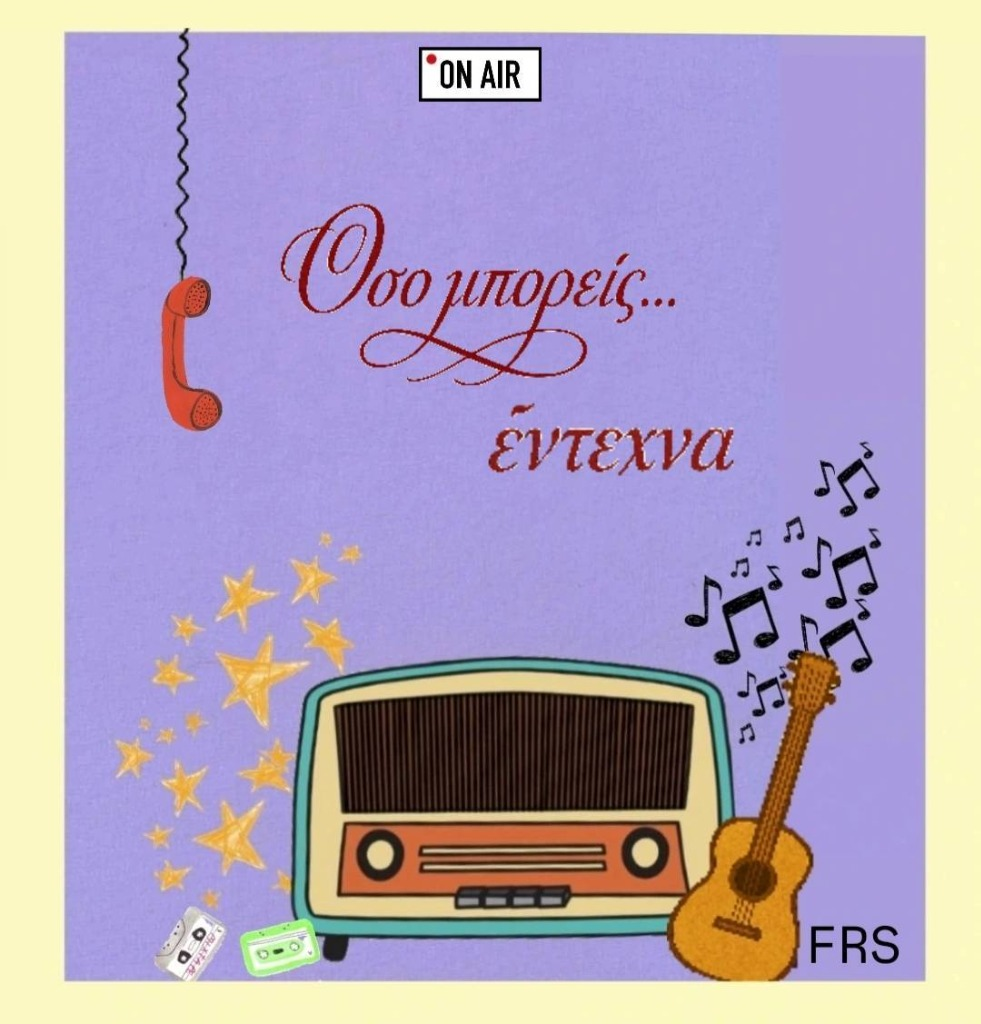
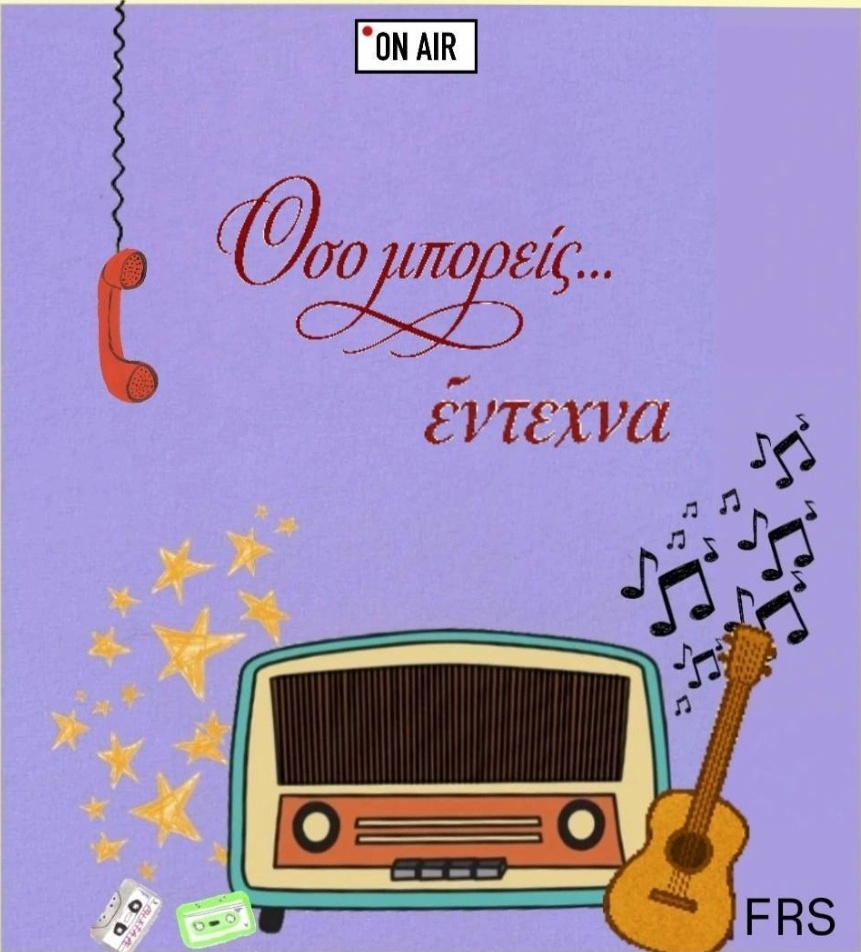
feat: add 1st party event, fix modal image cropping, and update producers text to 'δεκάδες'

diff --git a/src/data/radioData.ts b/src/data/radioData.ts
@@ -421,67 +421,30 @@ export const EXTRA_ARCHIVE_ITEMS_GR: ArchiveItem[] = [
 
 export const DEFAULT_EVENTS_GR: StationEvent[] = [
   {
-    id: "ev1",
-    dayNum: "18",
-    monthStr: "ΜΑΙ",
-    categoryBadge: "Festival & Outdoor Stage",
-    timeLocation: "🕒 19:30 • 📍 Πεδίον του Άρεως, Βόλος",
-    title: "Campus Spring Festival 2026",
-    description: "Το μεγαλύτερο φοιτητικό φεστιβάλ του Βόλου επιστρέφει με live bands, indie alternative acts και live stages στο Πεδίον του Άρεως. Μια ολόκληρη ημέρα γεμάτη μουσική, live ραδιοφωνικές συνεντεύξεις στον αέρα και ελεύθερη είσοδο για όλη την πανεπιστημιακή κοινότητα.",
-    tags: ["#LiveBands", "#FreeEntry", "#OutdoorStage", "#VolosCampus"]
-  },
-  {
-    id: "ev2",
-    dayNum: "24",
-    monthStr: "ΜΑΙ",
-    categoryBadge: "Workshop & Studio Training",
-    timeLocation: "🕒 17:00 • 📍 FRS Broadcast Studio A",
-    title: "Workshop: Podcast & Audio Production",
-    description: "Εξειδικευμένο εργαστήριο ήχου και παραγωγής εκπομπών από τους τεχνικούς και παραγωγούς του σταθμού. Πρακτική εκπαίδευση σε κονσόλες μίξης, μικροφωνικές τεχνικές, ηχογράφηση φωνής, mastering podcast επεισοδίων και live streaming workflows.",
-    tags: ["#Podcast", "#SoundMixing", "#StudioA", "#RadioSkills"]
-  },
-  {
-    id: "ev3",
-    dayNum: "06",
-    monthStr: "ΙΟΥΝ",
-    categoryBadge: "Vinyl Session",
-    timeLocation: "🕒 21:00 • 📍 Πολυτεχνείο Βόλου",
-    title: "Vinyl Night: Lo-Fi Beats & Analog Sound",
-    description: "Βραδιά αφιερωμένη στον αναλογικό ήχο και τη μαγεία του βινυλίου. Οι παραγωγοί του σταθμού επιλέγουν rare grooves, soul, funk και lo-fi hip hop αποκλειστικά από δίσκους βινυλίου με ζωντανή αναμετάδοση στο web stream.",
-    tags: ["#VinylOnly", "#Analog", "#ChillVibes"]
+    id: "cafe-santan-welcome-party-2026",
+    dayNum: "07",
+    monthStr: "ΟΚΤ",
+    categoryBadge: "Welcome Party",
+    timeLocation: "🕒 21:00 • 📍 Cafe Santan (Εργατικού Κέντρου 12, Βόλος)",
+    title: "Cafe Santan x FRS-UTH • Welcome Party",
+    description: "Το πρώτο επίσημο Welcome Party της χρονιάς από το FRS UTH στο θρυλικό Cafe Santan! Μουσική επιμέλεια και DJ set από τον Apostolis G. Σας περιμένουμε όλους να ξεκινήσουμε τη νέα ραδιοφωνική σεζόν δυνατά!",
+    tags: ["#WelcomeParty", "#CafeSantan", "#ApostolisG", "#FRSUTH", "#VolosNightlife"],
+    link: "https://www.facebook.com/events/cafe-santan/cafe-santan-x-frs-uth-welcome-party/1121089790612134/"
   }
 ];
 
 export const DEFAULT_EVENTS_EN: StationEvent[] = [
   {
-    id: "ev1",
-    dayNum: "18",
-    monthStr: "MAY",
-    categoryBadge: "Festival & Outdoor Stage",
-    timeLocation: "🕒 19:30 • 📍 Pedion tou Areos, Volos",
-    title: "Campus Spring Festival 2026",
-    description: "The biggest student festival in Volos returns with live bands, indie alternative acts, and live stages at Pedion tou Areos. A full day of live music, on-air radio interviews, and free entry for the entire university community.",
-    tags: ["#LiveBands", "#FreeEntry", "#OutdoorStage", "#VolosCampus"]
-  },
-  {
-    id: "ev2",
-    dayNum: "24",
-    monthStr: "MAY",
-    categoryBadge: "Workshop & Studio Training",
-    timeLocation: "🕒 17:00 • 📍 FRS Broadcast Studio A",
-    title: "Workshop: Podcast & Audio Production",
-    description: "Hands-on audio and broadcasting workshop led by station sound engineers and hosts. Practical training in mixing desks, microphone techniques, voice recording, podcast mastering, and live streaming workflows.",
-    tags: ["#Podcast", "#SoundMixing", "#StudioA", "#RadioSkills"]
-  },
-  {
-    id: "ev3",
-    dayNum: "06",
-    monthStr: "JUN",
-    categoryBadge: "Vinyl Session",
-    timeLocation: "🕒 21:00 • 📍 Volos Polytechnic",
-    title: "Vinyl Night: Lo-Fi Beats & Analog Sound",
-    description: "An evening dedicated to analog sound and vinyl groove. Station producers spin rare grooves, soul, funk, and lo-fi hip hop strictly from vinyl records with live broadcast on the web radio stream.",
-    tags: ["#VinylOnly", "#Analog", "#ChillVibes"]
+    id: "cafe-santan-welcome-party-2026",
+    dayNum: "07",
+    monthStr: "OCT",
+    categoryBadge: "Welcome Party",
+    timeLocation: "🕒 21:00 • 📍 Cafe Santan (12 Ergatikou Kentrou, Volos)",
+    title: "Cafe Santan x FRS-UTH • Welcome Party",
+    description: "The first official Welcome Party of the academic year by FRS UTH at the legendary Cafe Santan! DJ set and musical curation by Apostolis G. Join us to kick off the new season!",
+    tags: ["#WelcomeParty", "#CafeSantan", "#ApostolisG", "#FRSUTH", "#VolosNightlife"],
+    link: "https://www.facebook.com/events/cafe-santan/cafe-santan-x-frs-uth-welcome-party/1121089790612134/"
   }
 ];
+
 

diff --git a/src/App.tsx b/src/App.tsx
@@ -412,7 +412,7 @@ export default function App() {
       liveChat: "Live Chat",
       stat1: "24/7",
       stat1Sub: "Online Ροή",
-      stat2: "40+",
+      stat2: "Δεκάδες",
       stat2Sub: "Παραγωγοί",
       stat3: "100%",
       stat3Sub: "Ανεξάρτητο",
@@ -459,7 +459,7 @@ export default function App() {
       liveChat: "Live Chat",
       stat1: "24/7",
       stat1Sub: "Online Stream",
-      stat2: "40+",
+      stat2: "Dozens",
       stat2Sub: "Producers",
       stat3: "100%",
       stat3Sub: "Independent",
@@ -1380,8 +1380,8 @@ export default function App() {
                 </h1>
                 <p className="text-sm sm:text-base text-[#6B6560] leading-relaxed font-normal">
                   {isGreek 
-                    ? "40+ παραγωγοί. Μουσική από παντού. Όλη την εβδομάδα."
-                    : "40+ producers. Music from everywhere. All week long."}
+                    ? "Δεκάδες παραγωγοί. Μουσική από παντού. Όλη την εβδομάδα."
+                    : "Dozens of producers. Music from everywhere. All week long."}
                 </p>
               </div>
 
@@ -1704,6 +1704,20 @@ export default function App() {
                           <p className="text-sm sm:text-base text-[#6B6560] mt-2.5 leading-relaxed">
                             {ev.description}
                           </p>
+
+                          {ev.link && (
+                            <div className="pt-3">
+                              <a
+                                href={ev.link}
+                                target="_blank"
+                                rel="noopener noreferrer"
+                                className="inline-flex items-center gap-2 text-xs font-bold text-white bg-[#1877F2] hover:bg-[#166fe5] px-4 py-2.5 rounded-xl transition-all shadow-xs cursor-pointer group"
+                              >
+                                <span>{isGreek ? "Σελίδα Εκδήλωσης στο Facebook" : "Facebook Event Page"}</span>
+                                <ExternalLink className="w-3.5 h-3.5 group-hover:translate-x-0.5 transition-transform" />
+                              </a>
+                            </div>
+                          )}
                         </div>
 
                         {ev.tags && ev.tags.length > 0 && (
@@ -2236,20 +2250,30 @@ export default function App() {
               >
                 <button
                   onClick={() => setSelectedShowId(null)}
-                  className="absolute top-4 right-4 text-[#6B6560] hover:text-[#1C1917] p-1.5 rounded-full hover:bg-[#FAF8F4] cursor-pointer"
+                  className="absolute top-4 right-4 sm:top-5 sm:right-5 z-20 bg-black/60 hover:bg-black/85 text-white backdrop-blur-md p-2 rounded-full cursor-pointer transition-colors shadow-md border border-white/20"
                   title="Close"
                 >
                   <X className="w-5 h-5" />
                 </button>
 
                 <div className="flex flex-col gap-4">
-                  <div className="aspect-video w-full rounded-2xl overflow-hidden bg-stone-900 border border-black/10">
+                  <div className="relative aspect-video sm:aspect-[16/10] w-full rounded-2xl overflow-hidden bg-[#1C1917] border border-black/10 flex items-center justify-center shadow-inner">
+                    {/* Ambient blurred backdrop so any aspect ratio fills gracefully */}
+                    <img
+                      src={selectedShow.image || "/music-stream.jpg"}
+                      alt=""
+                      aria-hidden="true"
+                      className="absolute inset-0 w-full h-full object-cover blur-2xl scale-110 opacity-50 pointer-events-none select-none"
+                    />
+                    <div className="absolute inset-0 bg-black/20 backdrop-blur-xs pointer-events-none" />
+
+                    {/* Uncropped crisp foreground artwork */}
                     <img
                       src={selectedShow.image || "/music-stream.jpg"}
                       alt={selectedShow.title}
                       loading="lazy"
                       decoding="async"
-                      className="w-full h-full object-cover"
+                      className="relative z-10 w-full h-full object-contain p-2 drop-shadow-md select-none"
                     />
                   </div>
 

diff --git a/src/lib/contentService.ts b/src/lib/contentService.ts
@@ -88,6 +88,11 @@ export function getCachedCustomSchedule(): DayProgram[] | null {
   return null;
 }
 
+function isLegacyMockEvents(events: any[]): boolean {
+  if (!Array.isArray(events) || events.length === 0) return true;
+  return events.some(e => e.id === "ev1" || e.title?.includes("Campus Spring"));
+}
+
 /**
  * Synchronously retrieves cached custom events from localStorage to prevent flash on refresh
  */
@@ -96,7 +101,13 @@ export function getCachedCustomEvents(): StationEvent[] | null {
     const raw = localStorage.getItem(EVENTS_CACHE_KEY);
     if (raw !== null) {
       const parsed = JSON.parse(raw);
-      if (Array.isArray(parsed)) return parsed;
+      if (Array.isArray(parsed)) {
+        if (isLegacyMockEvents(parsed)) {
+          localStorage.removeItem(EVENTS_CACHE_KEY);
+          return null;
+        }
+        return parsed;
+      }
     }
   } catch (e) {}
   return null;
@@ -195,14 +206,25 @@ export function subscribeToCustomEvents(
     (snapshot) => {
       if (snapshot.exists()) {
         const val = snapshot.val();
-        // If snapshot exists, val.events is custom events from admin (even if empty [])
-        const evts: StationEvent[] = val && "events" in val && Array.isArray(val.events) 
-          ? val.events 
-          : (Array.isArray(val?.events) ? val.events : []);
-        try {
-          localStorage.setItem(EVENTS_CACHE_KEY, JSON.stringify(evts));
-        } catch (e) {}
-        callback(evts);
+        if (val && Array.isArray(val.events)) {
+          if (isLegacyMockEvents(val.events)) {
+            try {
+              localStorage.removeItem(EVENTS_CACHE_KEY);
+            } catch (e) {}
+            callback(null);
+            return;
+          }
+          const evts: StationEvent[] = val.events;
+          try {
+            localStorage.setItem(EVENTS_CACHE_KEY, JSON.stringify(evts));
+          } catch (e) {}
+          callback(evts);
+        } else {
+          try {
+            localStorage.removeItem(EVENTS_CACHE_KEY);
+          } catch (e) {}
+          callback(null);
+        }
       } else {
         // Snapshot does not exist -> explicitly reset to code defaults
         try {

diff --git a/src/components/AdminModal.tsx b/src/components/AdminModal.tsx
@@ -1351,6 +1351,22 @@ export default function AdminModal({
                         className="field py-1 px-2.5 text-xs w-full"
                       />
                     </div>
+
+                    <div className="sm:col-span-3">
+                      <label className="block text-[10px] font-bold text-stone-500 uppercase mb-0.5">
+                        {isGreek ? "Σύνδεσμος Εκδήλωσης (π.χ. Facebook Event URL)" : "Event Link (e.g. Facebook Event URL)"}
+                      </label>
+                      <input
+                        type="url"
+                        value={editingEvent.event.link || ""}
+                        onChange={(e) => setEditingEvent({
+                          ...editingEvent,
+                          event: { ...editingEvent.event, link: e.target.value }
+                        })}
+                        placeholder="https://www.facebook.com/events/..."
+                        className="field py-1 px-2.5 text-xs w-full"
+                      />
+                    </div>
                   </div>
 
                   <div className="flex items-center justify-end gap-2 pt-1">

diff --git a/src/types.ts b/src/types.ts
@@ -106,6 +106,7 @@ export interface StationEvent {
   title: string;
   description: string;
   tags: string[];
+  link?: string; // Optional external link (e.g. Facebook Event)
 }
 
 export interface OpenCallApplication {
